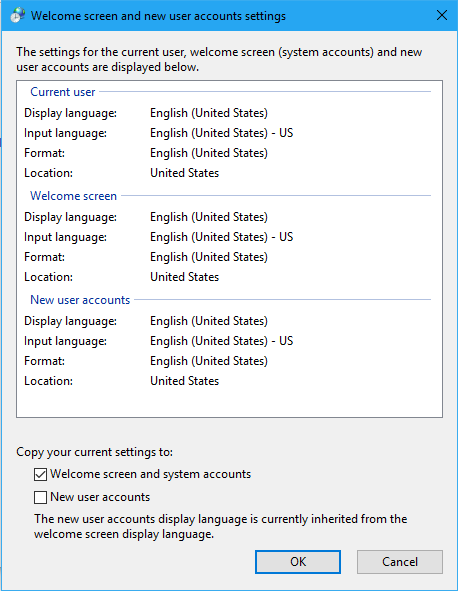
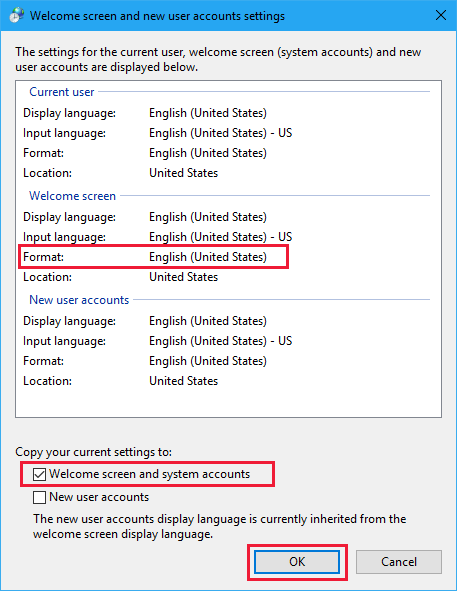
CI_148331_Modify/Remove confusing steps from Original KB 3054391

diff --git a/Exchange/ExchangeServer/compliance/search-adminauditlog-mailboxauditlog-return-no-result.md b/Exchange/ExchangeServer/compliance/search-adminauditlog-mailboxauditlog-return-no-result.md
@@ -25,11 +25,14 @@ _Original KB number:_ &nbsp;3054391
 
 ## Symptoms
 
-When you run the [Search-AdminAuditLog](/powershell/module/exchange/search-adminauditlog) or [Search-MailboxAuditLog](/powershell/module/exchange/search-mailboxauditlog) cmdlets in Exchange Management Shell together with a **Cmdlets** or **Parameters** parameter to filter the results, an empty result set is returned. Even if you run the `Search-AdminAuditLog` cmdlet without parameters, the full results may not be returned as expected.
+When you run the [Search-AdminAuditLog](/powershell/module/exchange/search-adminauditlog) or [Search-MailboxAuditLog](/powershell/module/exchange/search-mailboxauditlog) cmdlets in Exchange Management Shell together with a **Cmdlets** or **Parameters** parameter to filter the results, an empty or incomplete result set is returned. Even if you run the `Search-AdminAuditLog` cmdlet without parameters, the full results may not be returned as expected.
 
-This issue occurs in Microsoft Exchange Server 2013 and Exchange Server 2016.
+This issue occurs in Microsoft Exchange Server 2013 and Exchange Server 2016 and Exchange Server 2019.
 
 ## Workaround
+
+> [!NOTE]
+> Open the **Welcome screen and new user account settings** dialog box in the **Region** settings on the server where the searched mailbox is located, and check the **Format** for **Welcome screen**. If the **Format** for **Welcome screen** is not set to **English (United States)**, you can follow below steps to work around this issue.
 
 To work around this issue, set language and regional settings for the system and network service accounts to English (United States) on the server where the searched mailbox is located (active copy of database containing the mailbox you are running search for).
 
@@ -47,14 +50,12 @@ To work around this issue, set language and regional settings for the system and
     1. In the **Welcome screen and new user accounts settings** dialog box, click to select **Welcome screen and system accounts**, and then click **OK**.
 
         > [!NOTE]
-        > The system accounts include the network service account.
+        >
+        > - The system accounts include the network service account.
+        > - You can switch the **Format** for **Current user** back to the original value as long as the **Format** for **Welcome screen** is set to **English (United States)**.
 
-        ![Select the Welcome screen and system accounts option](./media/search-adminauditlog-mailboxauditlog-return-no-result/welcome-screen-user-accounts-settings.png)
+        :::image type="content" source="./media/search-adminauditlog-mailboxauditlog-return-no-result/welcome-screen-user-accounts-settings.png" alt-text="Select the Welcome screen and system accounts option":::
 
-    1. Click **Change system locale...** and set it **English (United States)**.
-1. Restart Exchange Server.
-
-To verify that the language and regional setting is correct, open a Windows PowerShell window and run the `Get-UICulture` command. The command should return **en-US** on the **Name** column.
 > [!NOTE]
 > The MSExchangeDelivery service may not start with Exchange Server. If the service doesn't start, follow these steps:
 >
